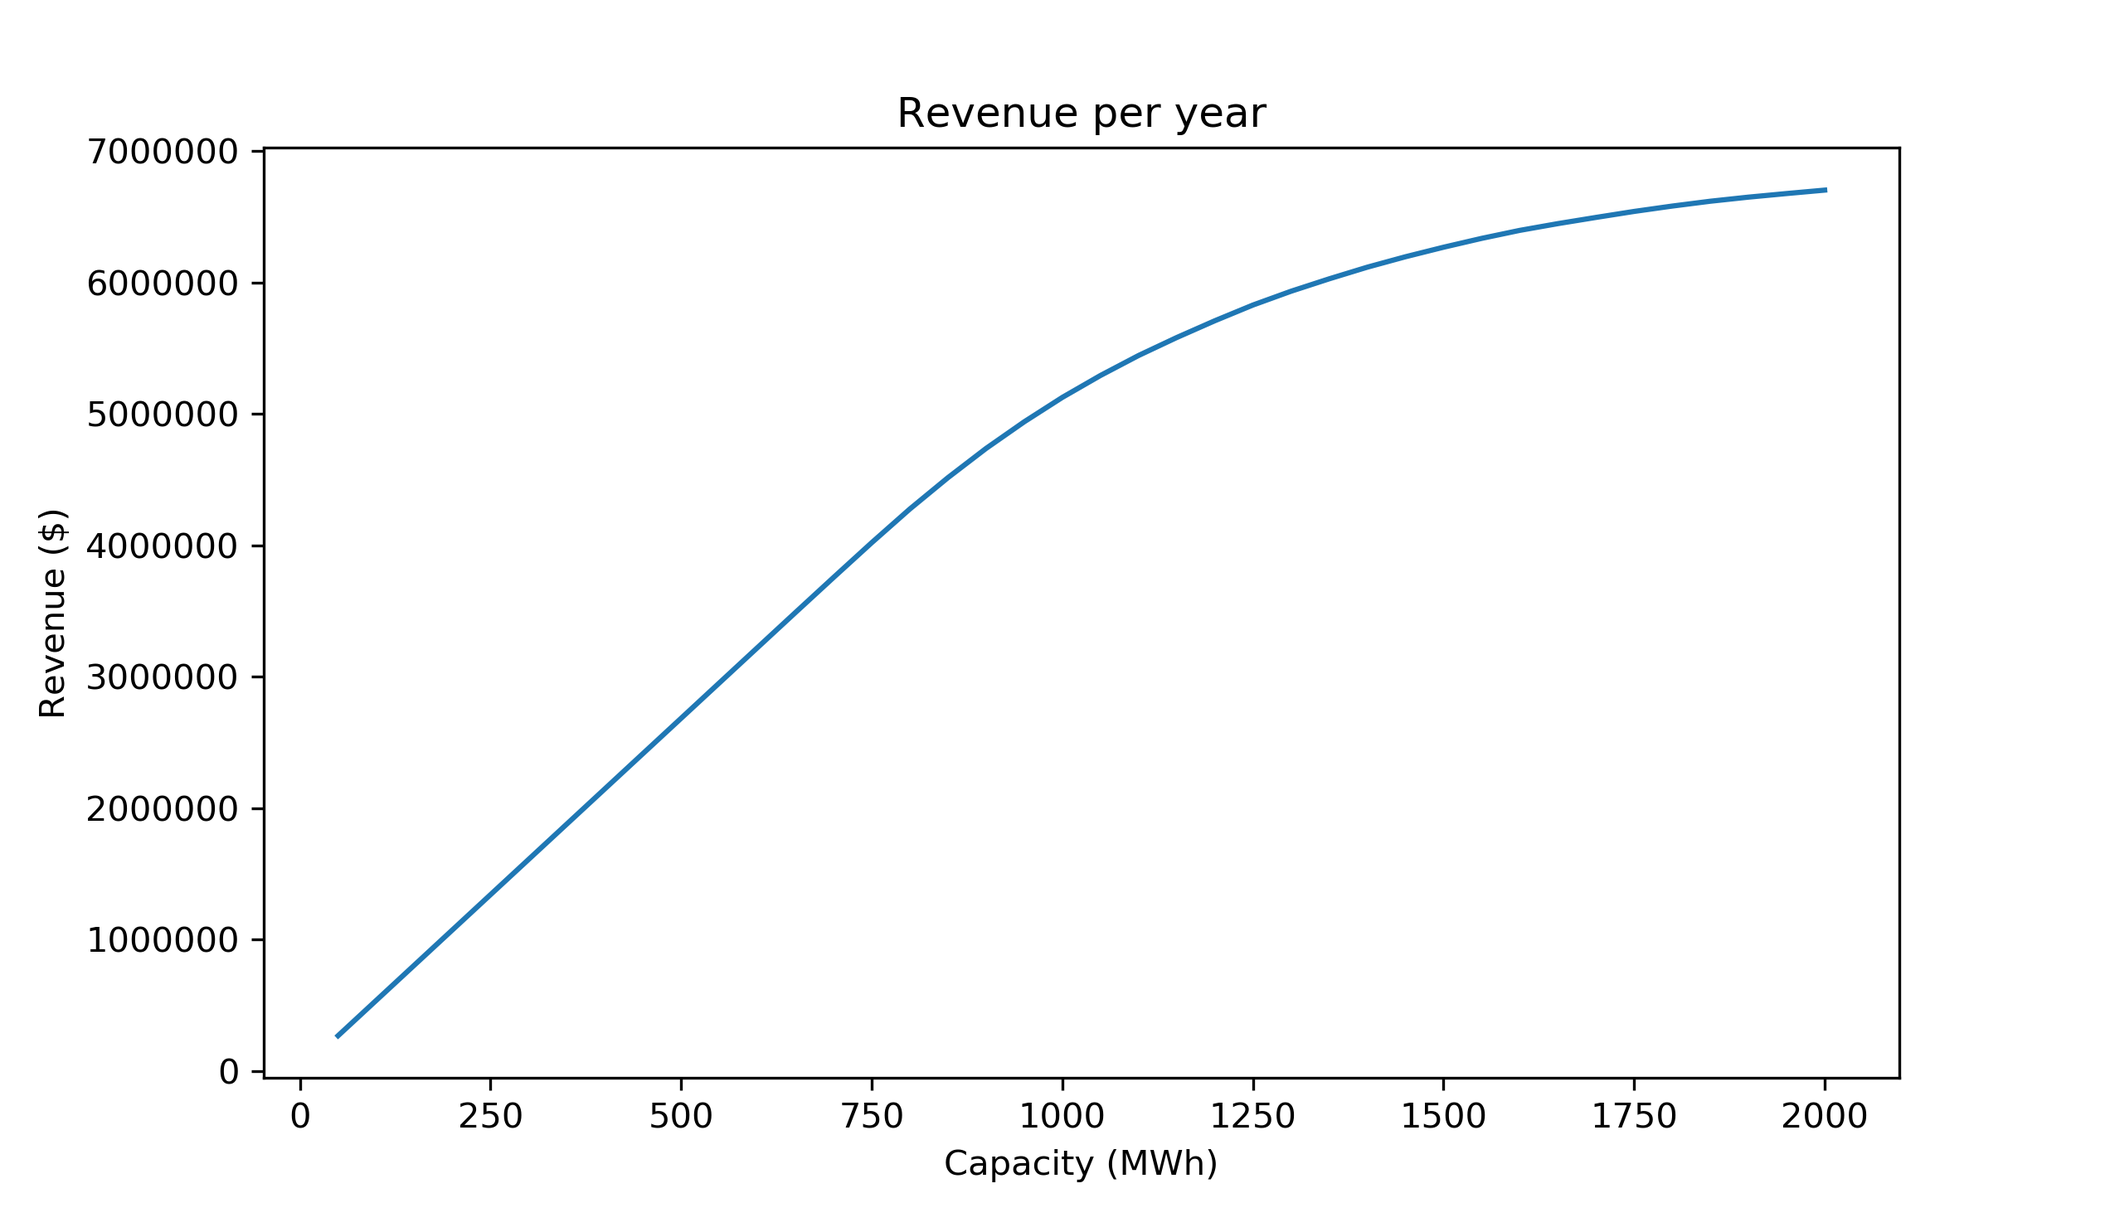
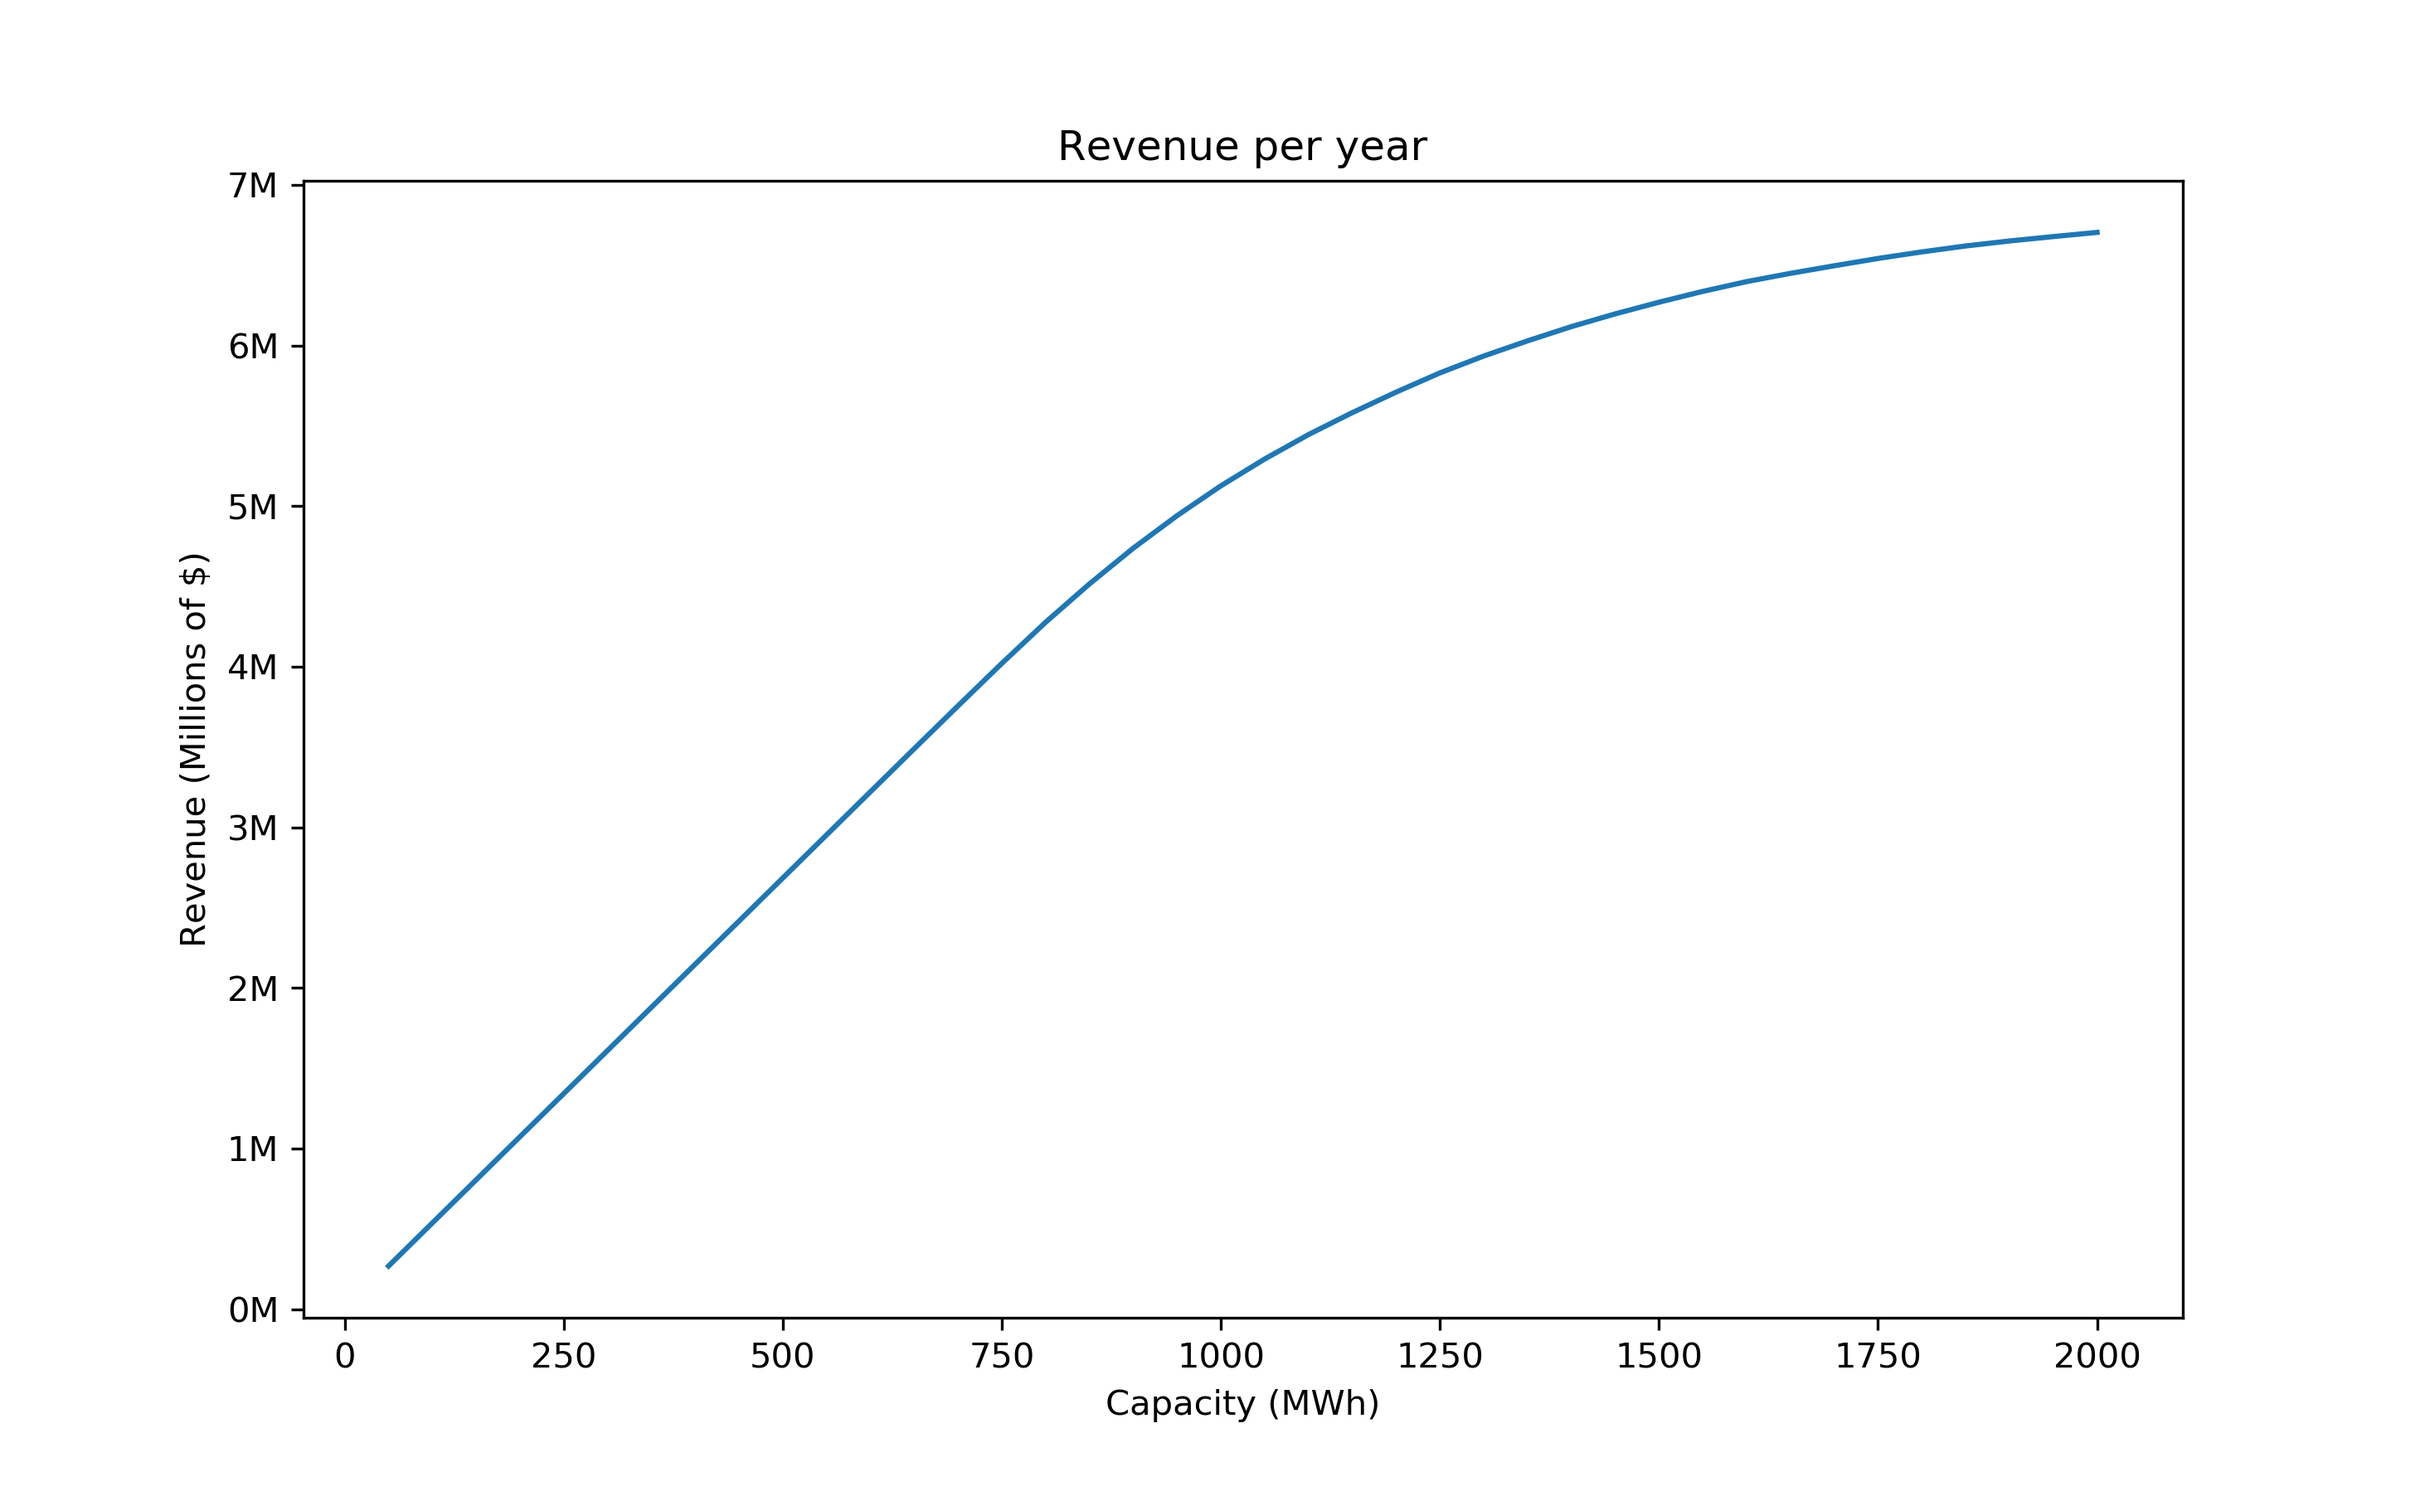
end project

diff --git a/ancillary_service_multiday.py b/ancillary_service_multiday.py
@@ -11,6 +11,7 @@ from scipy import interpolate
 import matplotlib.pyplot as plt
 from mpl_toolkits.mplot3d import Axes3D
 import matplotlib.ticker as mtick
+from matplotlib.ticker import FuncFormatter
 
 # %% plot names
 
@@ -18,8 +19,15 @@ AS_plot_name = 'ancillary_services_plot.png'
 rev_vs_cap_name = 'rev_vs_cap.png'
 profit_vs_cost_name = 'profit_vs_cost.png'
 
-fmt = '${x:,.0f}'
-tick = mtick.StrMethodFormatter(fmt)
+def millions(x, pos):
+    intermediate = round(float(x) / 10**6)
+    return "$" + str(intermediate) + "M"
+
+def test_func(x, pos):
+    return '400'
+
+mil_format = FuncFormatter(millions)
+test_format = FuncFormatter(test_func)
 
 
 # %% Define variables and parameters
@@ -46,42 +54,104 @@ eff_discharge = 0.90
 max_charge_rate = capacity / 4
 max_discharge_rate = capacity / 4
 
+price_arb = 30 # $/MWh
+capacity_range = range(100, 2000, 100)
+
+# %% Define function for optimization
+
+def optimize_AS(regup, regdn, capacity, eff_in, eff_out, max_charge, max_discharge, price_arb):
+
+    # Variables
+    charge =   cp.Variable(T)
+    discharge = cp.Variable(T)
+    discharge_arbitrage = cp.Variable(T)
+    battery_energy = cp.Variable(T+1)
+
+    # Objective! (negative because it works and thought might be necessary for convexity)
+    objective = cp.Maximize(cp.sum(eff_out * (discharge) * regup['price']) + cp.sum(charge * regdn['price']))
+
+    # Constraints
+    constraints = [ battery_energy <= capacity, \
+                    battery_energy >= 0, \
+                    battery_energy[0] == capacity / 2, \
+                    charge <= regdn['regdn'], \
+                    charge <= max_charge, \
+                    charge >= 0, \
+                    discharge <= regup['regup'], \
+                    discharge  + discharge_arbitrage <= max_discharge, \
+                    discharge >= 0, \
+                    discharge_arbitrage >= 0, \
+                    discharge_arbitrage <= capacity / 4]#cp.maximum(battery_energy[0:-1] - capacity / 4, np.zeros(battery_energy[0:-1].shape))]
+    for t in range(T):
+        constraints.append(battery_energy[t+1] == battery_energy[t] +
+            eff_in * charge[t] - discharge[t] - discharge_arbitrage[t])
+
+    prblm = cp.Problem(objective, constraints)
+
+    # Solve Problem
+    result = prblm.solve()
+    print("Total Revenue: ", objective.value)
+    print('Discharge: ', sum(eff_out * discharge.value * regup['price']), "\nCharge: ", sum(charge.value * regdn['price']), "\nArbitrage: ", sum(eff_out * discharge_arbitrage.value * price_arb))
+    print("Capacity: ", capacity, "\nStatus: ", prblm.status, "\n")
+    return prblm, charge, discharge, discharge_arbitrage, battery_energy
+
+
+
 # %% Run for loop to find cost curve
+ 
+revenue = []
+charge = []
+discharge  = []
+discharge_arb = []
+battery_energy = []
 
-#revenue = []
-#charge = []
-#discharge  = []
-#battery_energy = []
-
-for capacity in range(1050, 2050, 50):
+for capacity in capacity_range:
     max_charge_rate = capacity / 4
     max_discharge_rate = capacity / 4
-    prblm_new, charge_new, discharge_new, battery_energy_new = optimize_AS(regup, \
-        regdn, capacity, eff_charge, eff_discharge, max_charge_rate, max_discharge_rate)
+    prblm_new, charge_new, discharge_new, dis_arb_new, battery_energy_new = optimize_AS(regup, \
+        regdn, capacity, eff_charge, eff_discharge, max_charge_rate, max_discharge_rate, price_arb)
 
     if prblm_new.status in ['optimal', 'optimal_accurate', 'optimal_inaccurate']:
         print('Appending new lines')
-        revenue.append(prblm_new.value)
+        new_rev = prblm_new.value + sum(eff_discharge * discharge_new.value * price_arb)
+        revenue.append(new_rev)
         charge.append(charge_new.value)
         discharge.append(discharge_new.value)
+        discharge_arb.append(dis_arb_new.value)
         battery_energy.append(battery_energy_new.value)
 
 
 
 #prblm, charge, discharge, battery_energy = optimize_AS(regup, regdn, capacity, \
 #    eff_charge, eff_discharge, max_charge_rate, max_discharge_rate)
+# %% Play around with battery energy
+
+np.mean(battery_energy[0])
+
+adjusted_mean = []
+for n in range(0, len(capacity)):
+    energy_mean = np.mean(battery_energy[n])
+    adjusted_mean.append(energy_mean / (capacity[n] / 4))
+print(adjusted_mean)
+plt.plot(adjusted_mean)
+
+#amean_df = pd.DataFrame({'capacity': capacity, 'adjusted_mean_energy': adjusted_mean})
+#amean_df.to_csv('adjusted_mean_energy.csv')
+
+
 
 # %% Print curve results
-x = range(50,2050,50)
-capacity = np.array(x)
+#x = range(50,2050,50)
+capacity = np.array(capacity_range)
 # Write CSV with results so we don't lose them lol
-rev_csv = pd.DataFrame({'Capacity': capacity, 'Revenue': revenue})
-#rev_csv.to_csv('ancillary_revenue.csv')
-rev_csv = pd.read_csv('ancillary_revenue.csv')
+#rev_csv = pd.DataFrame({'Capacity': capacity, 'Revenue': revenue})
+#rev_csv.to_csv('arb_ancillary_revenue.csv')
+rev_csv = pd.read_csv('arb_ancillary_revenue.csv')
 revenue = rev_csv['Revenue']
 
 rev_array = np.array(revenue)
-
+cost_array = np.linspace(10, 300, len(capacity))
+'''
 cap_mat = np.transpose(np.tile(capacity, (len(capacity),1))) # Rows are different capacities
 rev_mat = np.transpose(np.tile(rev_array, (len(rev_array),1)))
 
@@ -90,7 +160,7 @@ cost_mat = np.tile(cost_array, (len(capacity),1))
 
 
 profit_mat = rev_mat * 10 - cost_mat * cap_mat * 1000
-'''
+
 fig = plt.figure()
 ax = fig.gca(projection = '3d')
 ax.plot_surface(cap_mat, cost_mat, profit_mat)
@@ -109,7 +179,7 @@ plt.ylabel('Revenue ($)')
 ax.yaxis.set_major_formatter(tick)
 plt.show()
 # %%
-plt.savefig(rev_vs_cap_name, dpi = 600)
+plt.savefig(rev_vs_cap_name, dpi = 300)
 # %%
 
 '''
@@ -133,8 +203,21 @@ plt.xlabel('Capital Cost of Battery ($/kWh)')
 plt.ylabel('Profit ($)')
 plt.show()
 # %%
-plt.savefig(profit_vs_cost_name, dpi = 600)
+plt.savefig(profit_vs_cost_name, dpi = 300)
 
+# %% Plot Profit!!
+profit = rev_array * 10 - capacity * 1000 * cost_kWh
+
+plt.figure()
+plt.plot(capacity, profit, capacity[np.argmax(profit)], np.max(profit), 'ro')
+plt.title('Maximum Profit is $350 Million')
+plt.xlabel('Total Battery Capacity (MWh)')
+plt.ylabel('Profit ($)')
+plt.show()
+plt.gca().yaxis.set_major_formatter(FuncFormatter(millions))
+
+# %%
+plt.savefig("arb_profit_capacity.png", dpi = 300)
 
 
 # %% Plot Different types of ancillary services
@@ -150,14 +233,14 @@ col_names = []
 for n in range(0, len(filenames)):
     next_file_path = os.path.join(relative_path_day, filenames[n])
     next_file = pd.read_csv(next_file_path)
-    
+
     AS_day[:,n] = next_file.iloc[:,2]
     col_names.append(next_file.columns[2])
-    
+
     print(next_file.columns[2])
 
 col_names = [str.split(' - ')[1] for str in col_names]
-
+plt.figure()
 plt.plot(AS_day)
 plt.legend(col_names)
 plt.title('Different Ancillary Services on May 14th, 2017')
@@ -165,8 +248,8 @@ plt.xlabel('Hour of Day')
 plt.ylabel('Power Requirement (MW)')
 
 
-# Use this once you've made the plot larger:
-#plt.savefig(AS_plot_name, dpi = 600)
+# %%Use this once you've made the plot larger:
+plt.savefig(AS_plot_name, dpi = 300)
 
 # %% Print single results
 
@@ -181,39 +264,6 @@ plt.plot(discharge.value)
 plt.plot(charge.value)
 plt.plot(battery_energy.value)
 
-
-# %% Define function for optimization
-
-def optimize_AS(regup, regdn, capacity, eff_in, eff_out, max_charge, max_discharge):
-
-    # Variables
-    charge =   cp.Variable(T)
-    discharge = cp.Variable(T)
-    battery_energy = cp.Variable(T+1)
-
-    # Objective! (negative because it works and thought might be necessary for convexity)
-    objective = cp.Maximize(cp.sum(discharge * regup['price'] + charge * regdn['price']))
-
-    # Constraints
-    constraints = [ battery_energy <= capacity, \
-                    battery_energy >= 0, \
-                    battery_energy[0] == 0, \
-                    charge <= regdn['regdn'], \
-                    charge <= max_charge, \
-                    charge >= 0, \
-                    discharge <= regup['regup'], \
-                    discharge <= max_discharge, \
-                    discharge >= 0]
-    for t in range(T):
-        constraints.append(battery_energy[t+1] == battery_energy[t] +
-            eff_in * charge[t] - eff_out * discharge[t])
-
-    prblm = cp.Problem(objective, constraints)
-
-    # Solve Problem
-    result = prblm.solve()
-    print("Capacity: ", capacity, "\nStatus: ", prblm.status, "\n")
-    return prblm, charge, discharge, battery_energy
 
 
 # %% Problem outside of for loop if needed

diff --git a/unzip_and_aggregate.py b/unzip_and_aggregate.py
@@ -11,7 +11,7 @@ import numpy as np
 
 
 # %% unzip all files in a folder and rename in a certain way
-# FUCK YEAH THIS WORKS NOW!!
+
 
 
 def unzip_to_folders(relative_path_folder, new_folder_suffix):
